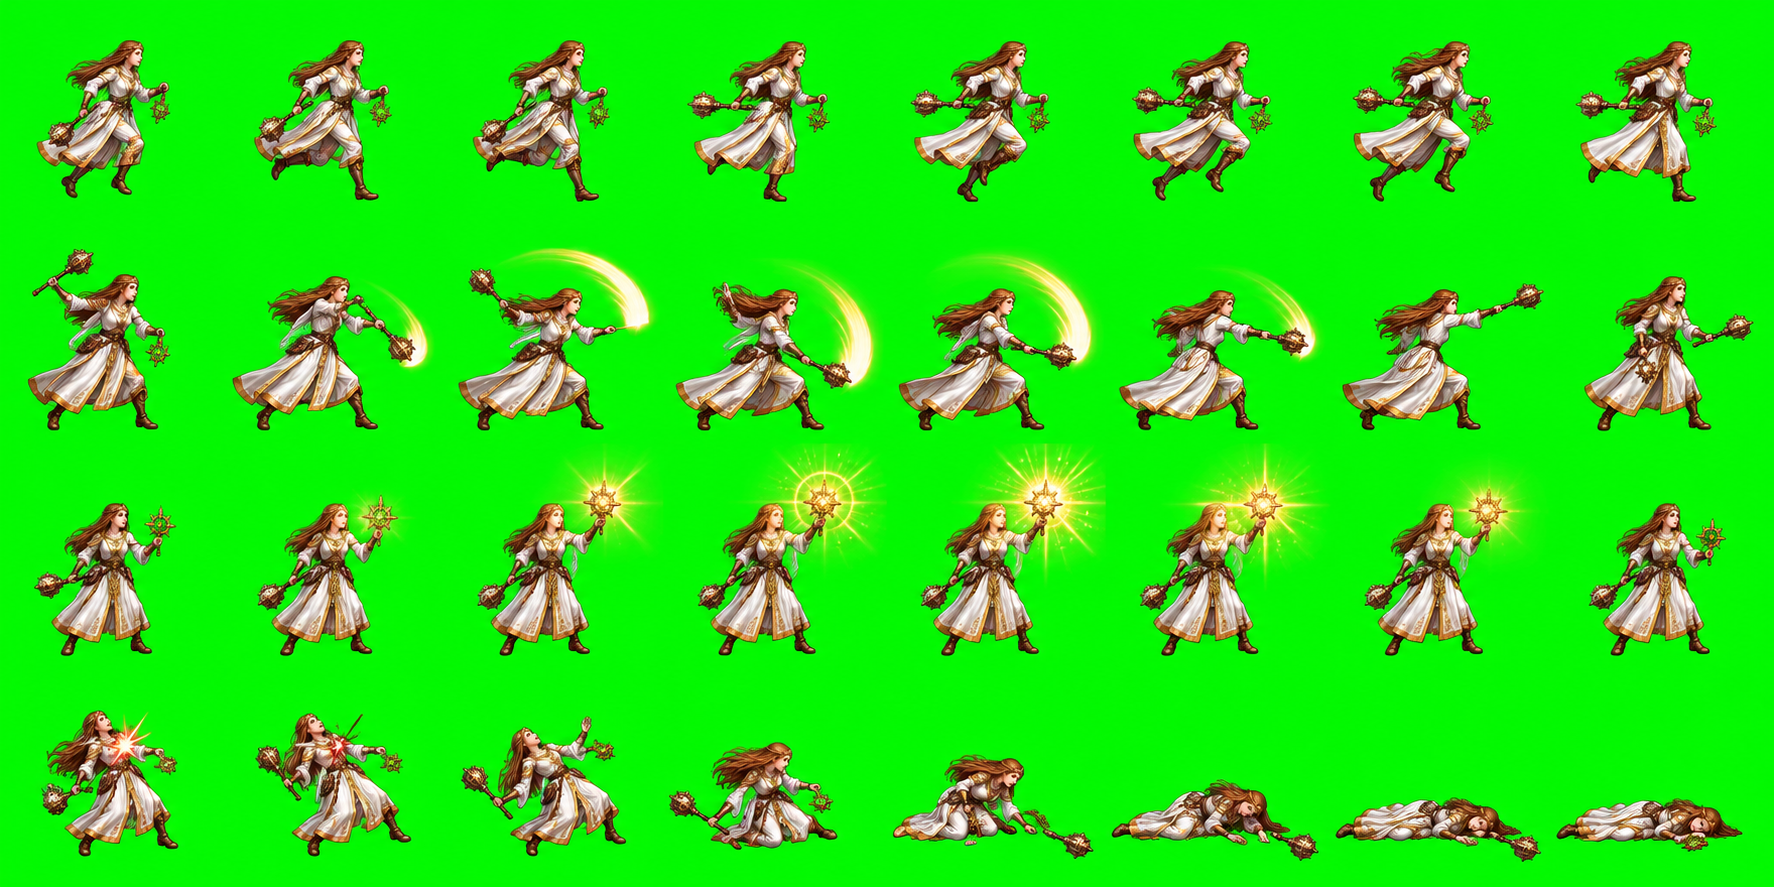
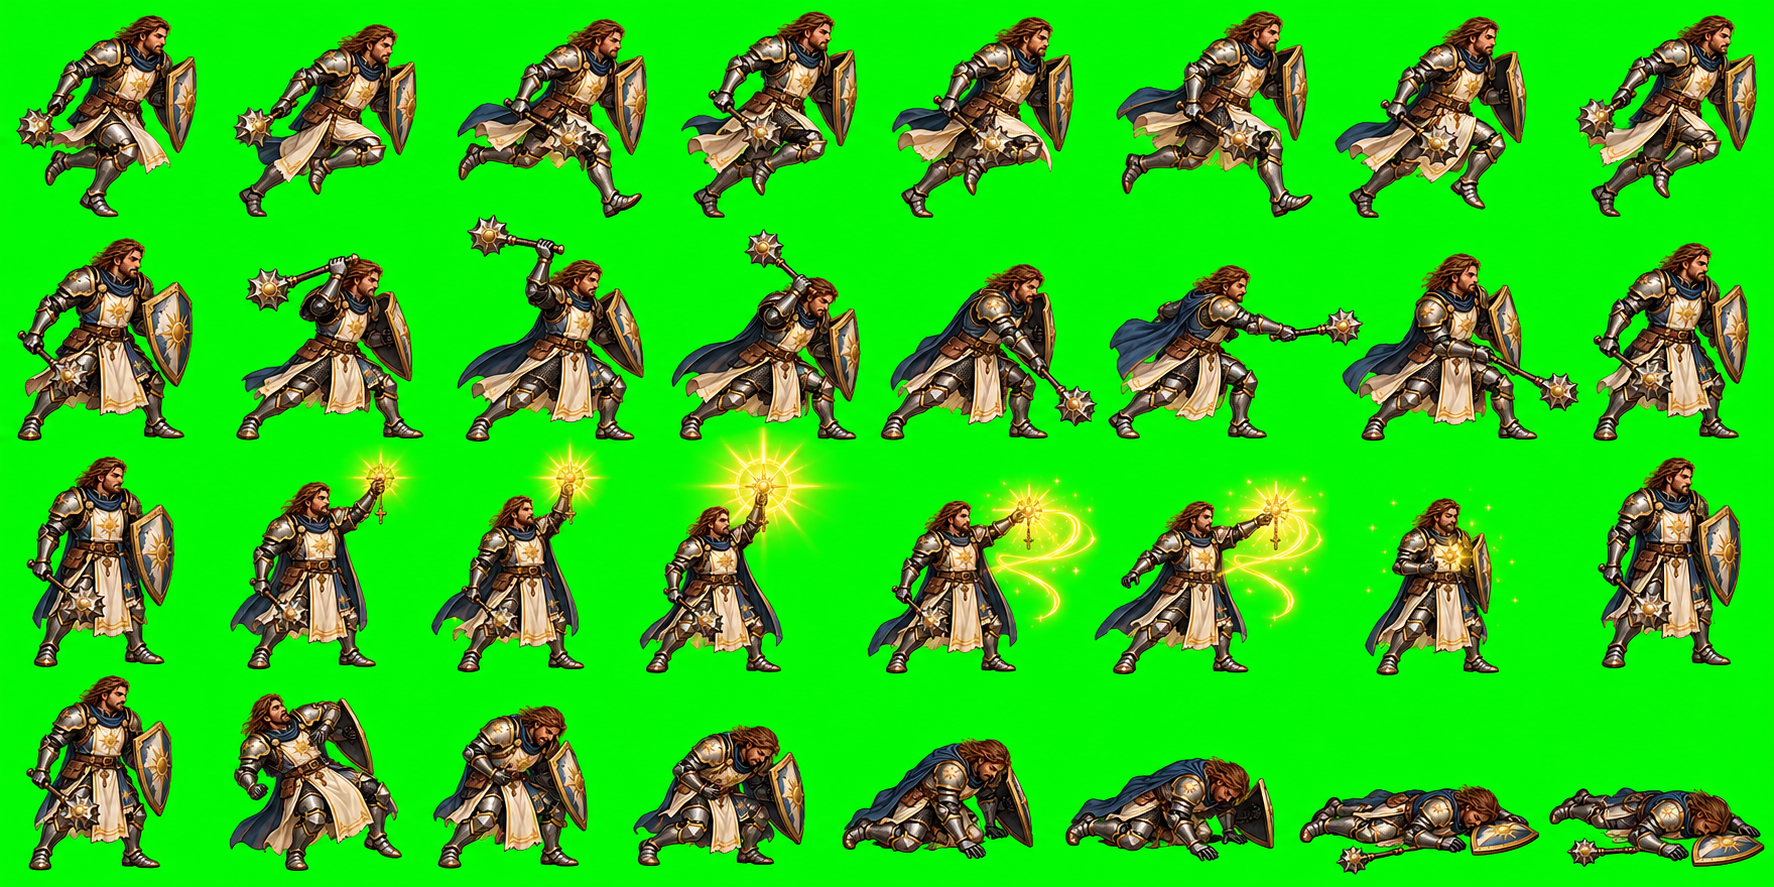
Match male cleric animation to portrait

diff --git a/README.md b/README.md
@@ -26,7 +26,7 @@
 
 На поле анимируются шаги врагов между клетками, действия героев и врагов, полёт стрел и заклинаний, попадания, лечение, зелья, появление и гибель. Следующий ход начинается после анимации предыдущего. Урон от обычных и огненных стрел наносится при достижении цели; тогда же появляются запись в журнале, звук попадания и анимация гибели. Открытый журнал останавливает бой вместе с анимациями. Герои в этой версии не перемещаются по правилам боя.
 
-У всех четырёх героев и трёх типов врагов есть покадровые изображения. В покое герои стоят в боевой стойке; беговые позы показываются только при перемещении. Удар меняет позу рук и оружия; лучница натягивает тетиву, маг выпускает огонь, клирик поднимает руку для лечения, враги бьют ножом или топором и кусают. Враги перебирают кадры бега между клетками. При попадании и гибели меняется поза всего тела. Каждый ряд нового листа содержит восемь кадров; игра показывает ровно один кадр за раз. При сборке листа каждая фигура отделяется от соседних поз и помещается в свою ячейку с прозрачным зазором; для стоячих, беговых и атакующих поз одного персонажа используется одинаковый масштаб. Прозрачные игровые листы `assets/*-animation-8f.png` получены из хромакейных оригиналов в `assets/animation_chroma/` командой `Godot --headless --path . --script res://tools/key_sprite_sheets.gd`.
+У всех четырёх героев и трёх типов врагов есть покадровые изображения. В покое герои стоят в боевой стойке; беговые позы показываются только при перемещении. Удар меняет позу рук и оружия; лучница натягивает тетиву, маг выпускает огонь, клирик поднимает руку для лечения, враги бьют ножом или топором и кусают. Враги перебирают кадры бега между клетками. При попадании и гибели меняется поза всего тела. Каждый ряд нового листа содержит восемь кадров; игра показывает ровно один кадр за раз. При сборке листа каждая фигура отделяется от соседних поз и помещается в свою ячейку с прозрачным зазором; для стоячих, беговых и атакующих поз одного персонажа используется одинаковый масштаб. Прозрачные игровые листы `assets/*-animation-8f.png` получены из хромакейных оригиналов в `assets/animation_chroma/` командой `Godot --headless --path . --script res://tools/key_sprite_sheets.gd`. В бою используется мужская анимация клирика; прежняя женская сохранена отдельно в `assets/cleric-female-animation-8f.png` и `assets/animation_chroma/cleric-female.png` для будущих персонажей.
 
 Портреты всех четырёх героев тоже состоят из отдельных кадров: герои моргают, меняют выражение при действии, ранении и лечении. При потере сознания и гибели показывается соответствующий кадр. Открытый журнал останавливает анимацию портретов вместе с боем.
 
@@ -46,4 +46,4 @@
 
 ## Состояние изображений
 
-Фон и общий стиль взяты из утверждённого макета. Клирик и лучница в панели изображены людьми. Лучница на поле использует отдельный прозрачный спрайт на основе её портрета. Общие эффекты отряда отложены до следующих версий.
+Фон и общий стиль взяты из утверждённого макета. Клирик и лучница в панели изображены людьми; фигурка клирика на поле соответствует его мужскому портрету. Лучница на поле использует отдельный прозрачный спрайт на основе её портрета. Общие эффекты отряда отложены до следующих версий.
